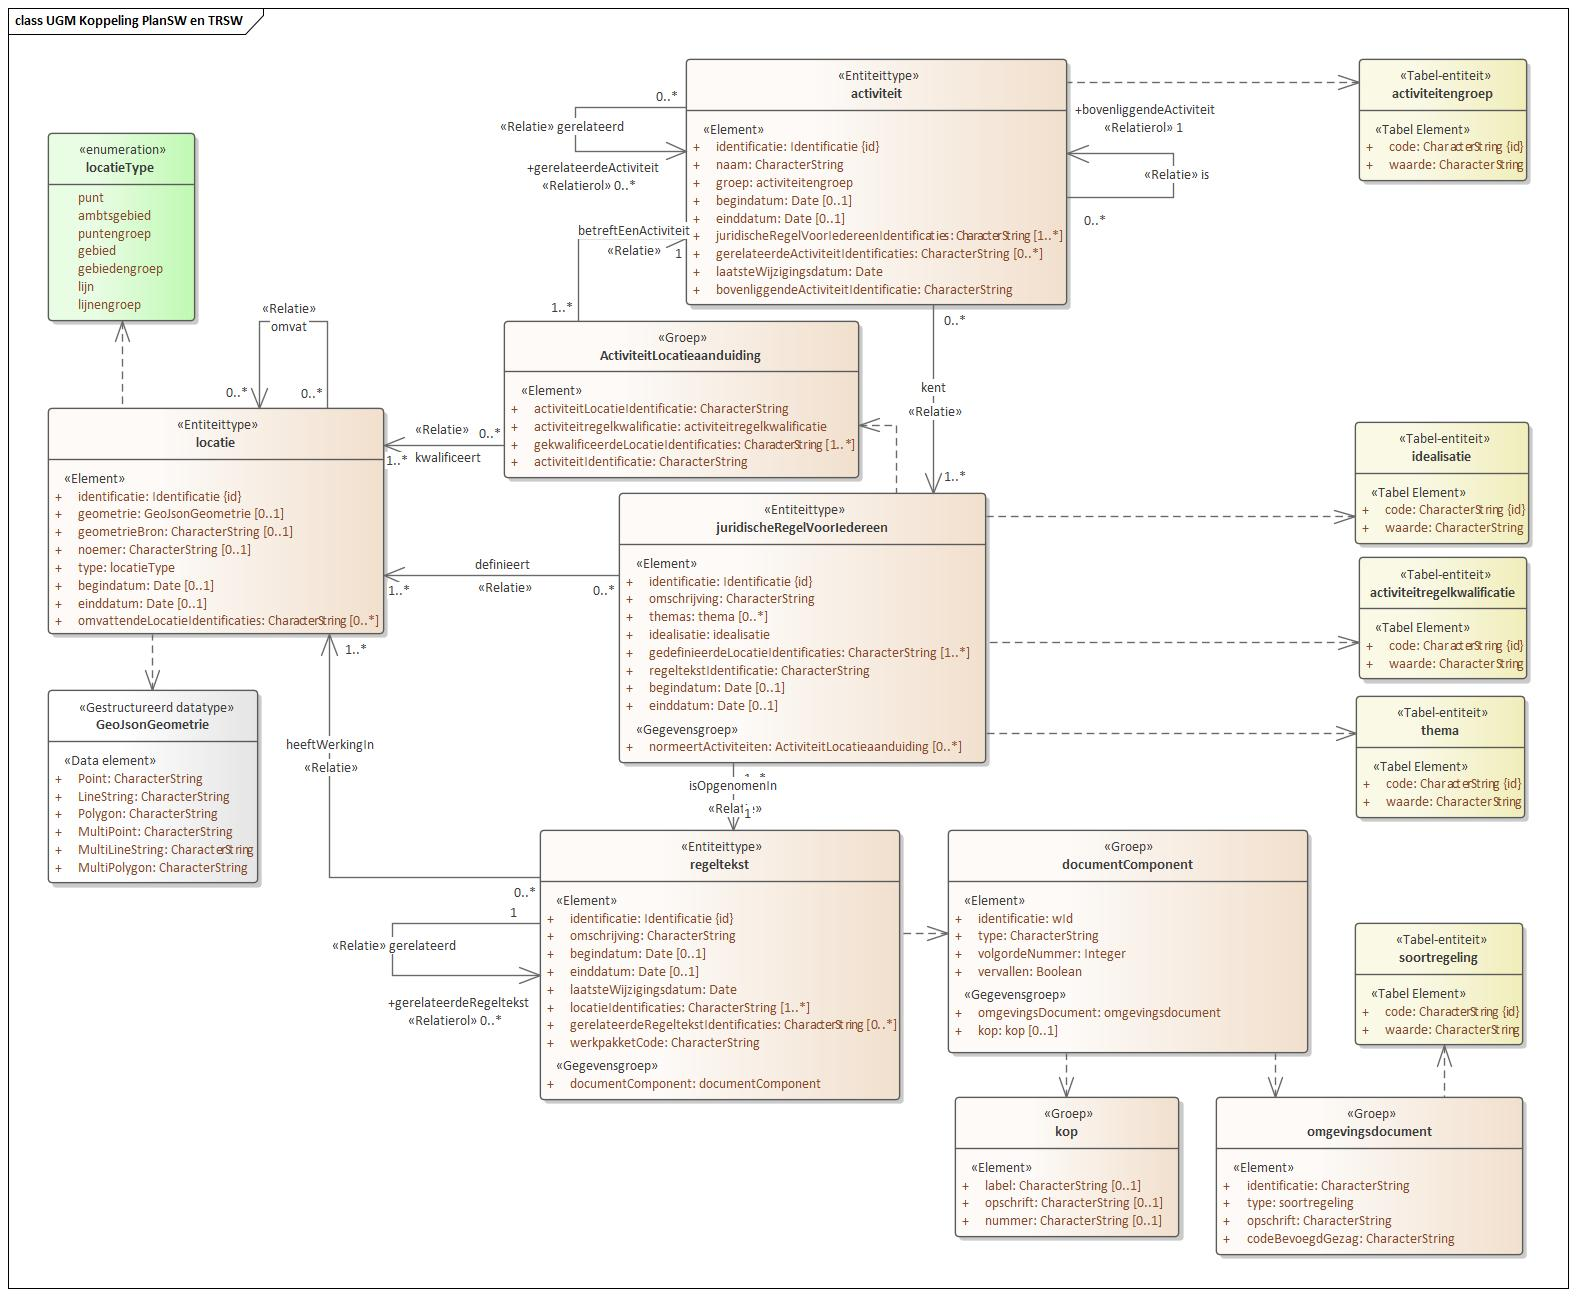
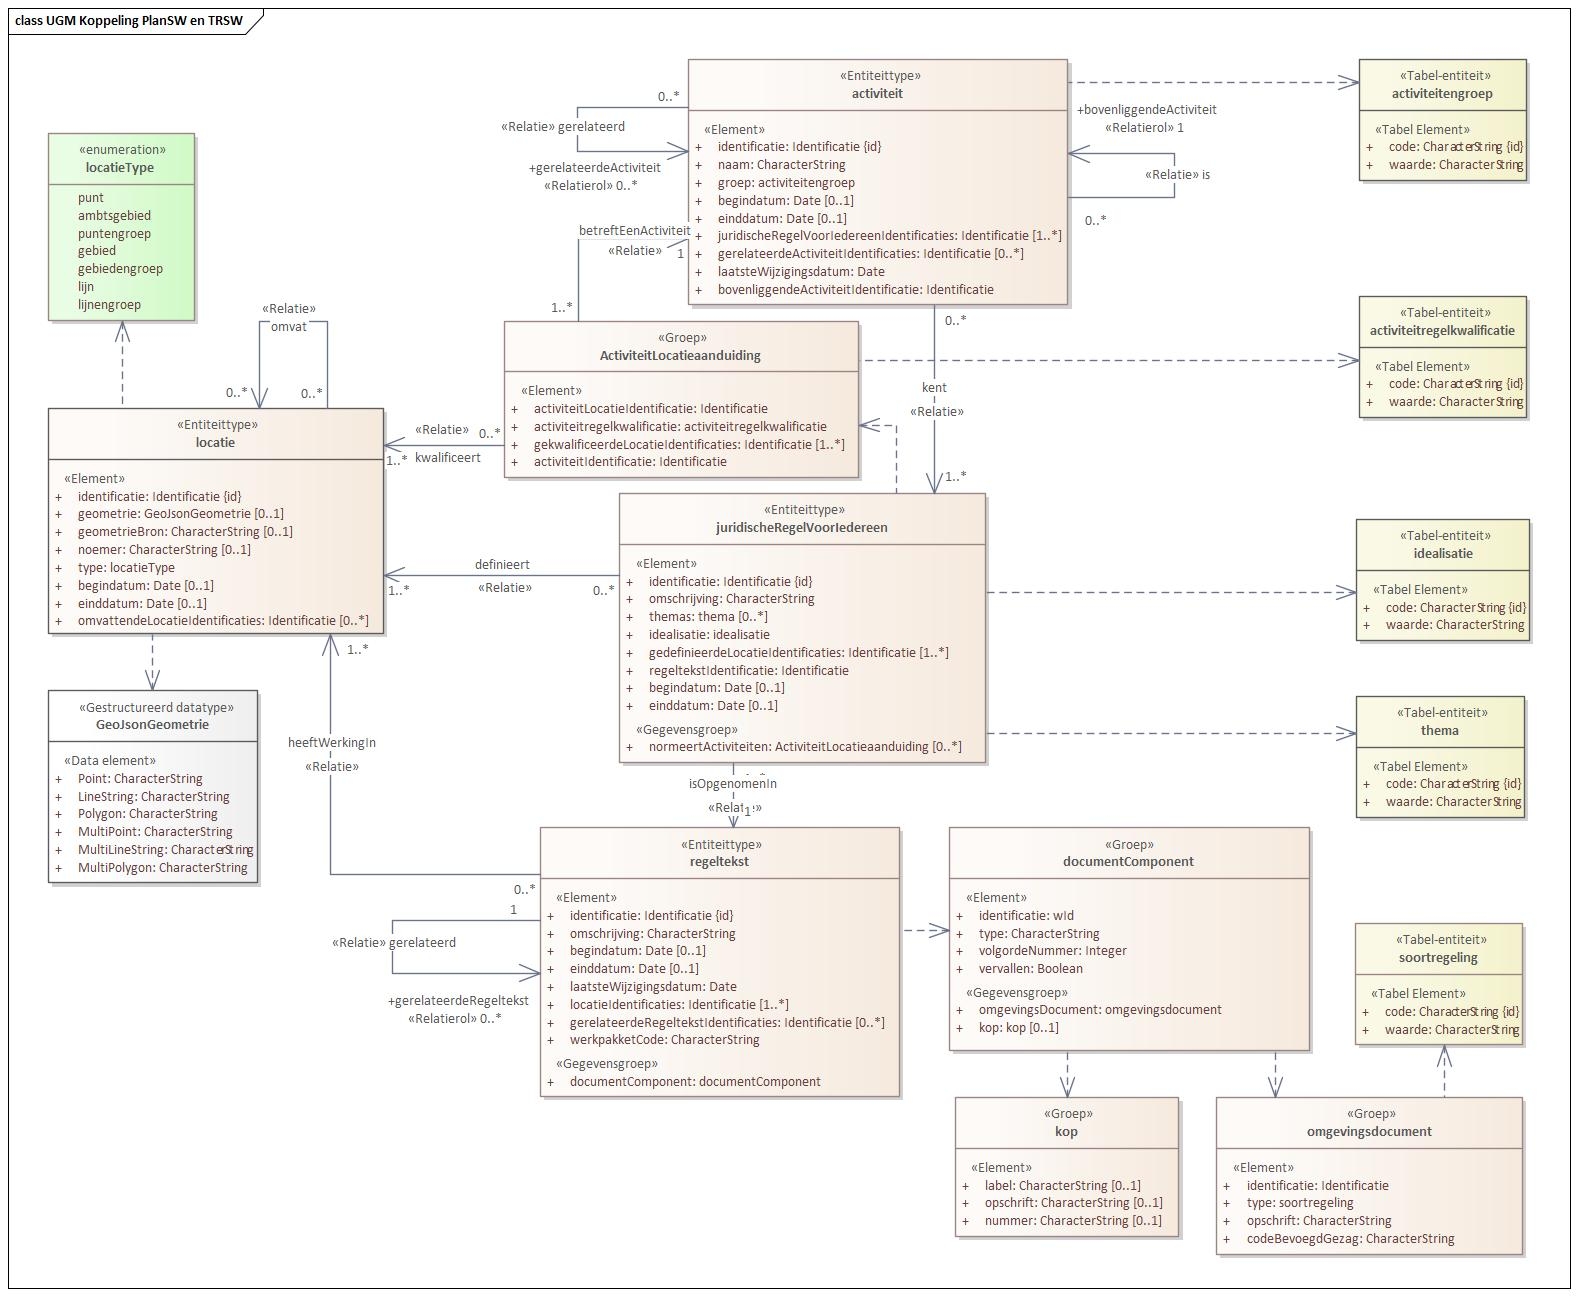
Update ontwerpbeslissingen

diff --git a/docs/ontwerpbeslissingen.md b/docs/ontwerpbeslissingen.md
@@ -33,21 +33,11 @@ Beiden zijn optioneel zodat ook een puntengroep, gebiedengroep en lijnengroep ge
 * Het attribute 'code' uit het objecttype 'BevoegdGezag' is onder naam 'codeBevoegdGezag' platgeslagen in de groep 'omgevingsdocument'.
 * De groep 'Kop' is in het uitwisselingsmodel onder de naam 'kop' en dezelfde inhoud opgenomen en is via het attribute 'kop' opgenomen in de groep 'documentComponent'.
 *	De meervoudige naam van de relatie 'omvat' op het entiteittype 'locatie' heeft de waarde 'omvattendeLocaties' omdat daarmee de rol van de relatie naar een subresource van hetzelfde type duidelijker wordt. Daarnaast voorkomt dit dat we binnen het entiteittype 'locatie' zowel een attribute 'identificatie' als 'locatieIdentificaties' krijgen wat verwarrend kan werken omdat onbekend is welke van de twee gerelateerd is met de relatie 'omvat' en dus fouten in de hand kan werken.
-*	In het entiteitype 'regeltekst' heeft om eenzelfde reden de meervoudige naam van de relatie 'gerelateerd' de waarde 'gerelateerdeRegelteksten' gekregen.
-*	In het entiteitype 'activiteit' heeft om eenzelfde reden de meervoudige naam van de relatie 'gerelateerd' de waarde 'gerelateerdeActiviteiten' en de meervoudige naam van de relatie 'is' de waarde 'bovenliggendeActiviteit' gekregen. Daarnaast was verbijzondering natuurlijk ook noodzakelijk omdat er 2 relaties naar hetzelfde entiteittype verwezen.
+* In het entiteitype 'regeltekst' heeft om eenzelfde reden de meervoudige naam van de relatie 'gerelateerd' de waarde 'gerelateerdeRegelteksten' gekregen.
+* In het entiteitype 'activiteit' heeft om eenzelfde reden de meervoudige naam van de relatie 'gerelateerd' de waarde 'gerelateerdeActiviteiten' en de meervoudige naam van de relatie 'is' de waarde 'bovenliggendeActiviteit' gekregen. Daarnaast was verbijzondering natuurlijk ook noodzakelijk omdat er 2 relaties naar hetzelfde entiteittype verwezen.
 *	In het entiteitype 'juridischeregelsvooriedereen' heeft om eenzelfde reden de meervoudige naam van de relatie 'definieert' de waarde 'gedefinieerdeLocaties' en de meervoudige naam van de relatie 'kwalificeert' de waarde 'gekwalificeerdeLocaties' gekregen. Ook hier geldt dat verbijzondering ook noodzakelijk was omdat er 2 relaties naar hetzelfde entiteittype verwezen.
+* De VNG Realisatie Design Rule DD1.5 (zie [Design Rules VNG Realisatie](https://github.com/VNG-Realisatie/API-Kennisbank/tree/master/Design%20rules)) is ter discussie gesteld. In de OAS specificatie van deze API lopen we daarop vooruit.
 
 E.e.a. leidt tot het volgende uitwisselingsgegevensmodel:
 
 ![UGM](https://github.com/VNG-Realisatie/Regels-bij-activiteiten/blob/main/docs/UGM%20Koppeling%20PlanSW%20en%20TRSW.jpg)
-
-## Vragen
-
-Tijdens het ontwerpproces riepen een aantal zaken de volgende vragen op:
-
-* Er wordt aangegeven dat men het attribute ‘origineel coördinatensysteem’ in de resource ‘locatie’ opgenomen wil hebben. Op dit moment is dat
-nog niet opgenomen omdat het de praktijk is om dit als 'acceptCRS' en ‘contentCRS’ in de header van het berichten op te nemen. De vraag is echter of er
-redenen zijn waarom je dit juist in de content zou willen opnemen?
-* Hier en daar zijn door platslaan attributen elders terecht gekomen waardoor er een noodzaak was de namen te wijzigen. Ook is in de OAS3 specificatie
-bij relaties tussen resources niet de namen van die relaties gebruikt maar van de daaraan gekoppelde resources, echter bij meerdere relaties naar dezelfde andere
-resource zijn de namen gedifferentieerd. Verzoek is om de gekozen naamgeving kritisch tegen het daglicht te houden.
